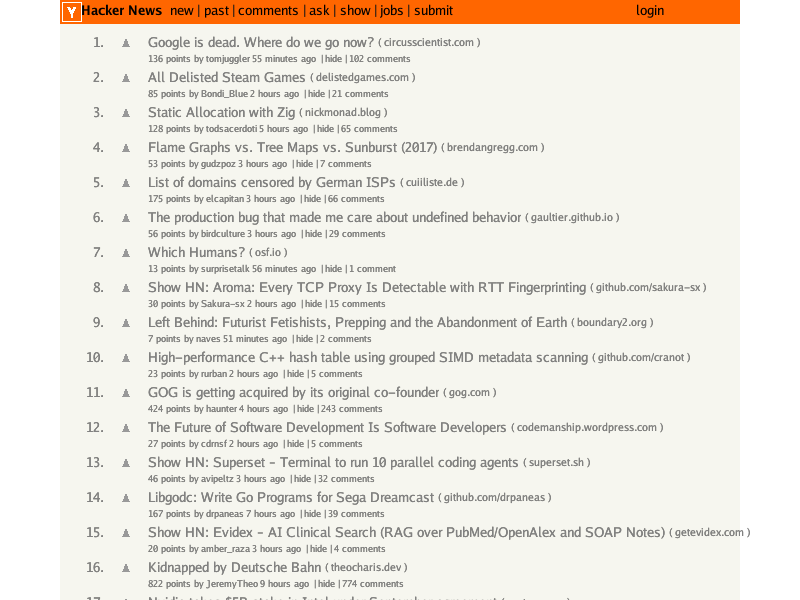
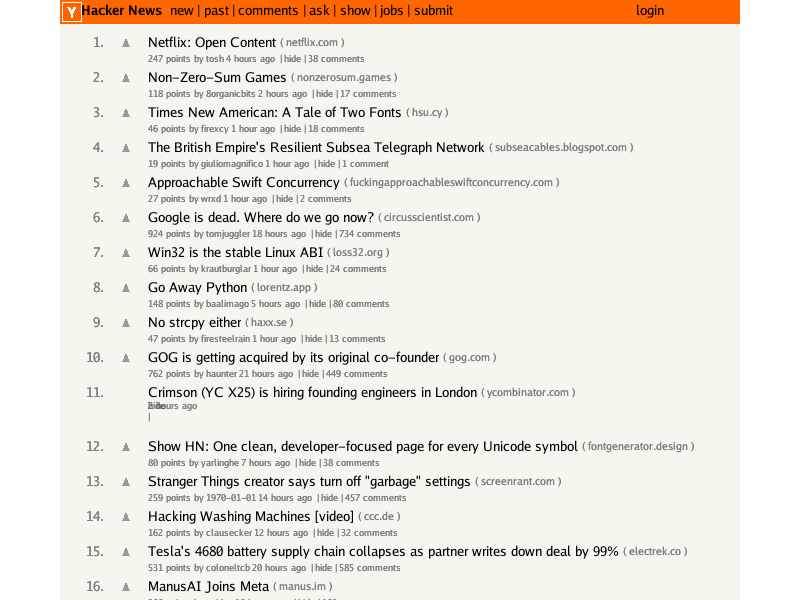
Fix :visited pseudo-class matching to prevent incorrect cascade
The issue was that both a:link and a:visited were matching ALL <a> elements
since we don't track visited state. This caused a:visited rules to override
a:link rules due to source order, making all links gray instead of black.

Fix: Treat all links as unvisited (:link) and exclude :visited from matching.
Also ensure :link only matches <a> elements with href attribute.

This fixes the Hacker News rendering where title links are now correctly
black (#000000) and only domain links inside .comhead are gray (#828282).

Changed region(s): [[0.1875, 0.06, 0.9375, 1.0], [0.0938, 0.69, 0.125, 1.0]]

diff --git a/style/style.go b/style/style.go
@@ -307,6 +307,30 @@ func matchesSimpleSelector(node *dom.Node, selector *css.SimpleSelector) bool {
 		}
 	}
 
+	// Check pseudo-classes for link state
+	// CSS 2.1 §5.11.2: :link and :visited pseudo-classes
+	// Since we don't track visited state, we treat all links as unvisited (:link)
+	// Therefore, selectors with :visited should not match any elements
+	if len(selector.PseudoClasses) > 0 {
+		for _, pseudoClass := range selector.PseudoClasses {
+			if pseudoClass == "visited" {
+				// :visited pseudo-class - don't match (treat all links as unvisited)
+				return false
+			}
+			// For other pseudo-classes like :link, :hover, :focus, etc.
+			// we ignore them for matching purposes (already counted in specificity)
+			// :link matches all <a> elements with href attribute
+			if pseudoClass == "link" {
+				// Only match if this is an <a> element with href
+				if node.Data != "a" || node.GetAttribute("href") == "" {
+					return false
+				}
+			}
+			// Other pseudo-classes like :hover, :active, :focus are ignored
+			// (they're counted in specificity but don't affect matching)
+		}
+	}
+
 	return true
 }
 
